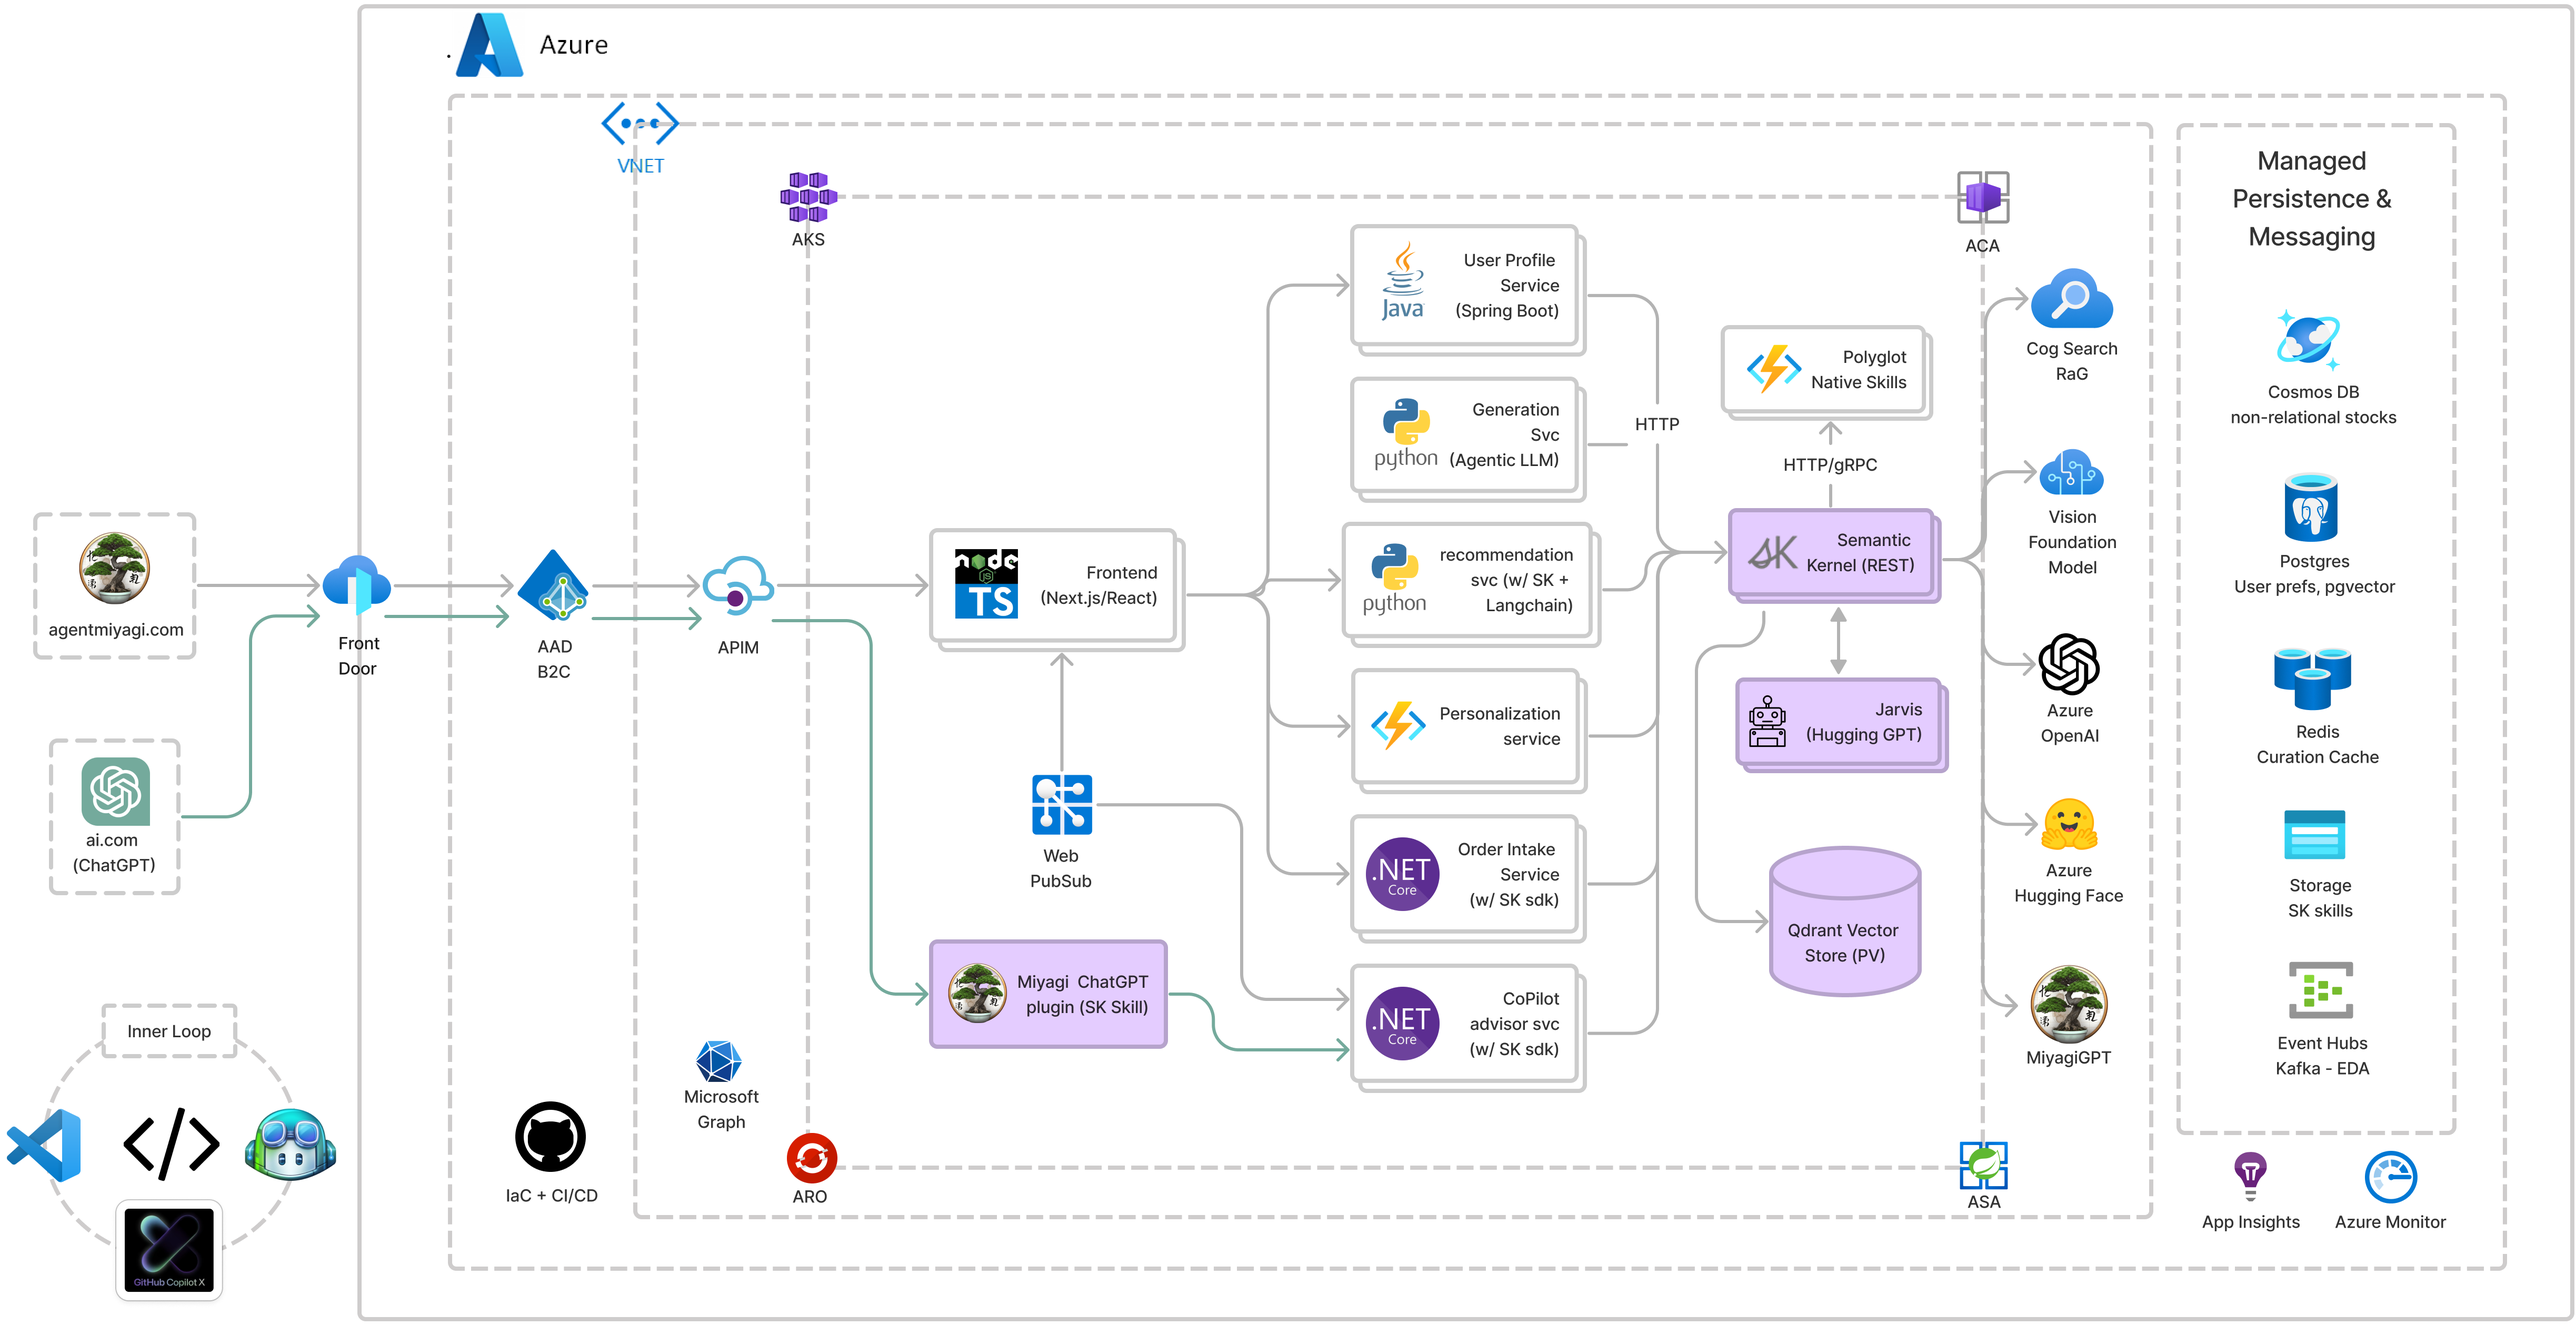
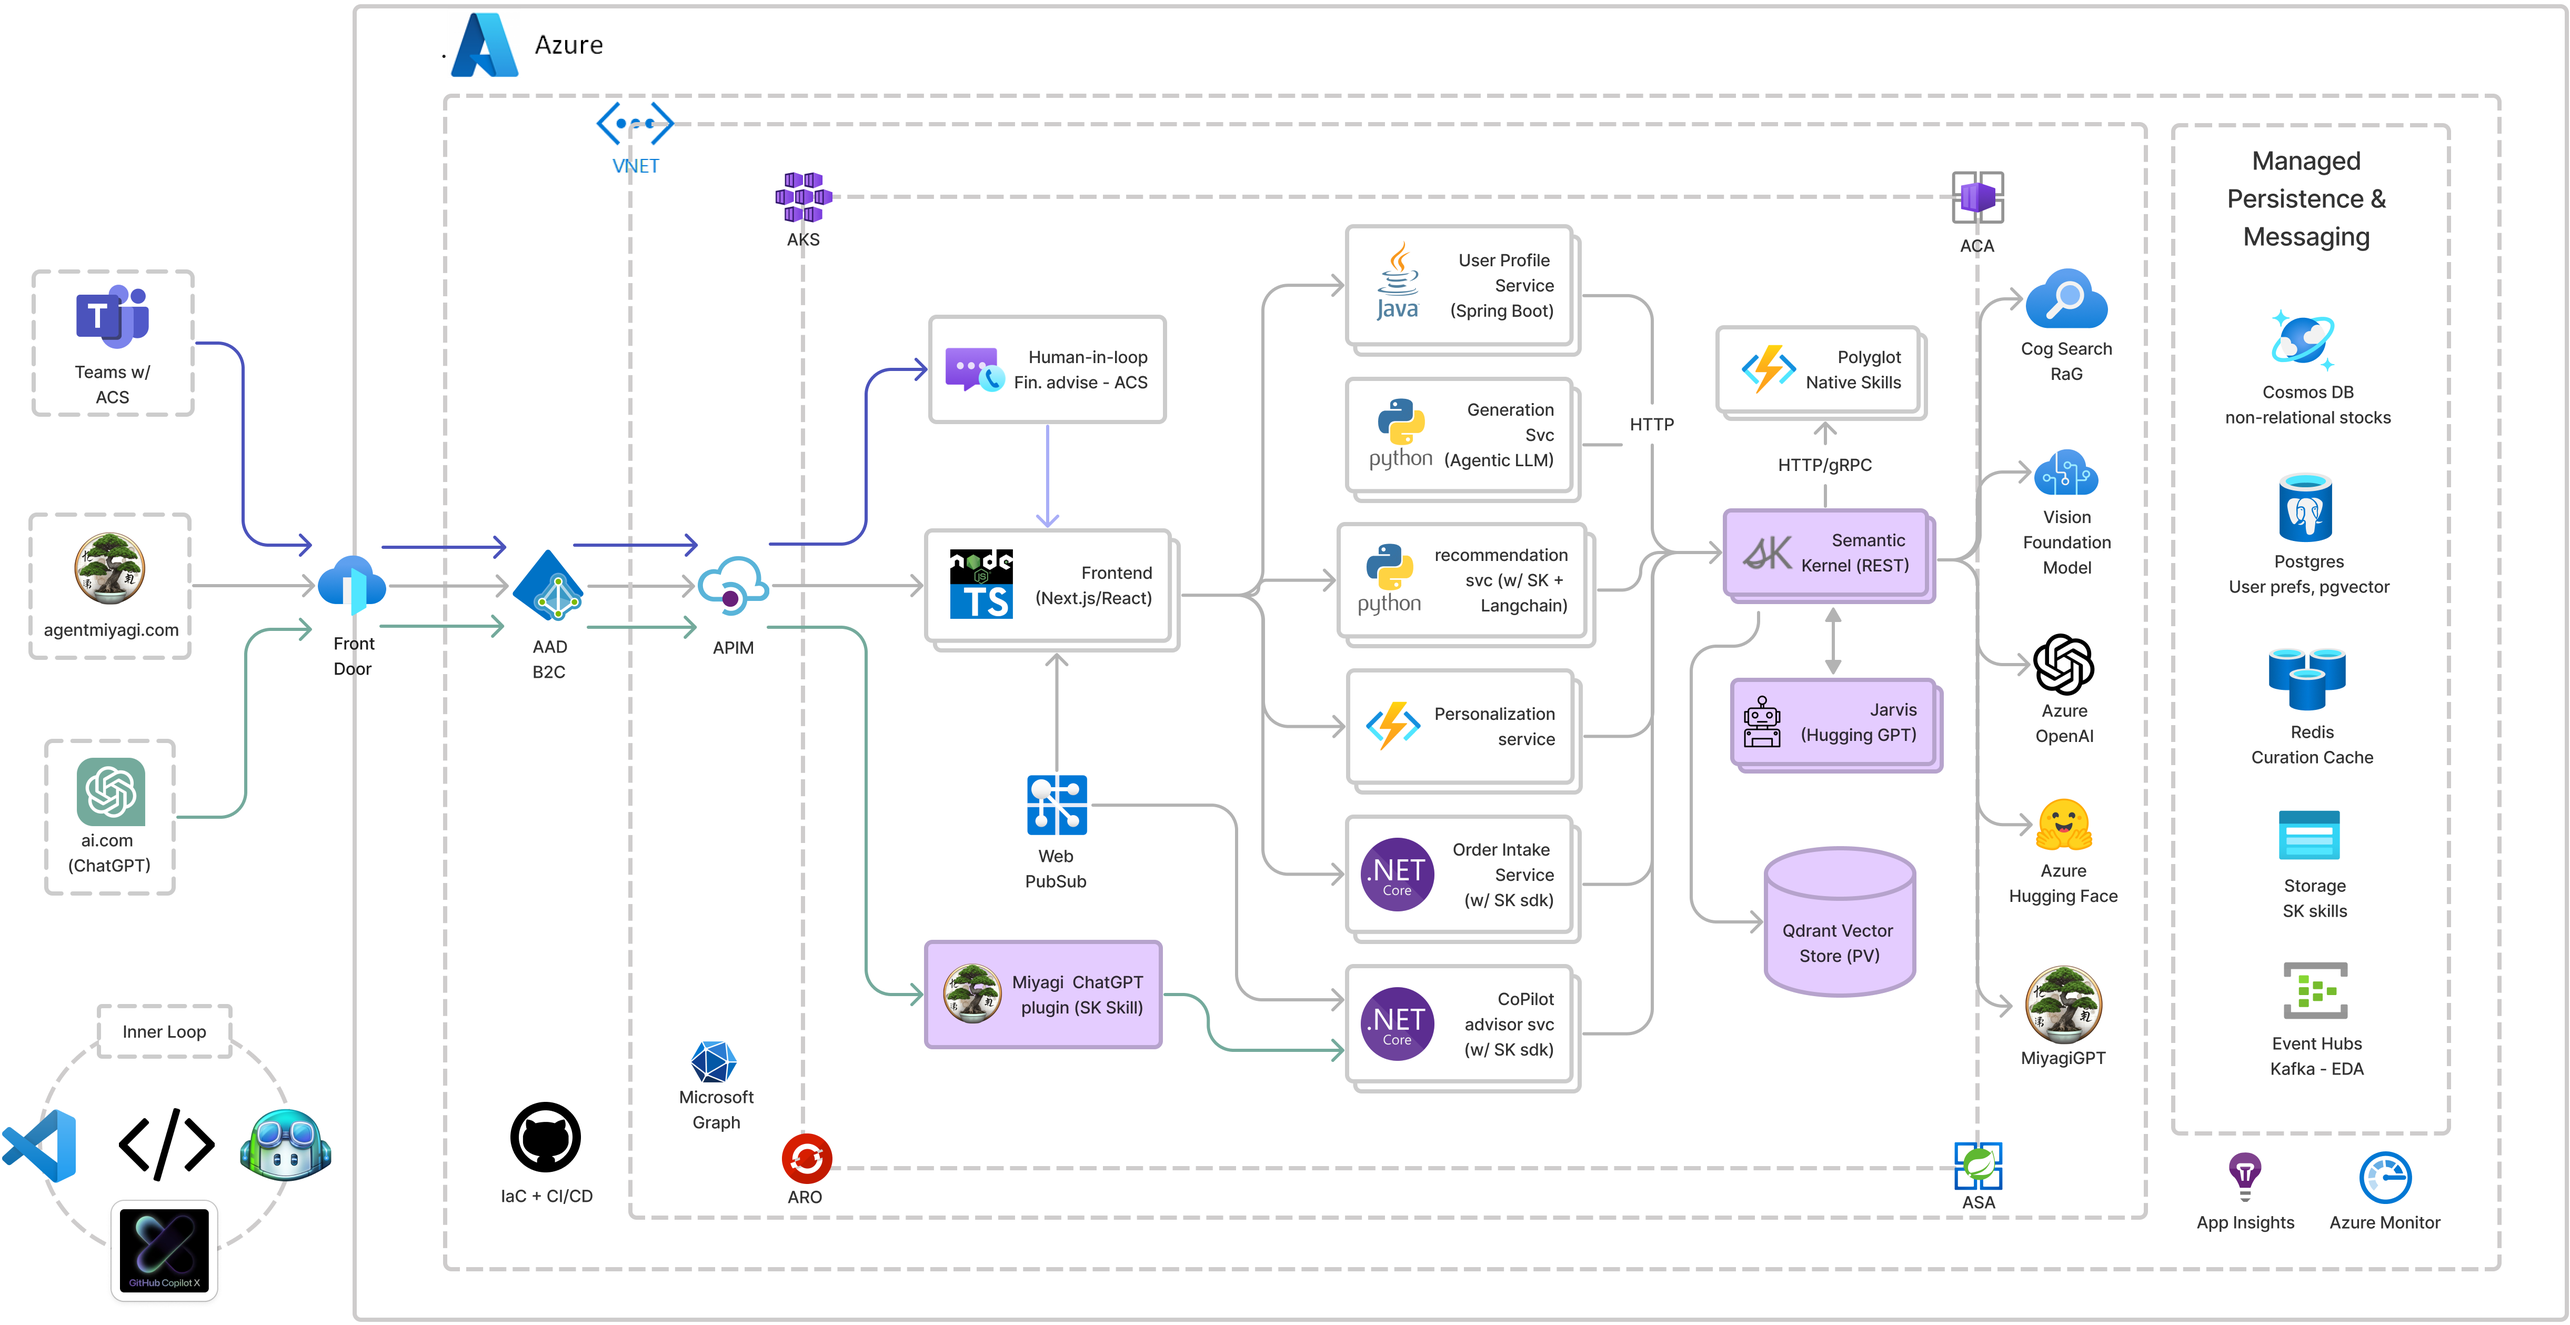
add azure communication services

diff --git a/docs/wksp/00-intro/architecture-overview.md b/docs/wksp/00-intro/architecture-overview.md
@@ -23,9 +23,9 @@ Miyagi's architecture is designed with a focus on customer-centricity, leveragin
 
 The event-driven backbone of Miyagi's architecture ensures enterprise-grade quality attributes such as availability, scalability, and maintainability. The architecture is designed to evolve with the rapid advancements in foundation models, allowing for incremental implementation of various use cases and experimentation.
 
-Miyagi's frontend moves beyond simple chat interactions, offering a more engaging and dynamic user experience. The generative image use case architecture with Dreambooth showcases the creative potential of AI in modern applications. In addition, it also showcases how you can build your own chatbot using [DeepSpeed Chat](https://github.com/microsoft/DeepSpeedExamples/tree/master/applications/DeepSpeed-Chat) with your own biases and personality (RLHF - Reinforcement Learning from Human Feedback)
+Miyagi's frontend moves beyond simple chat interactions, offering a more engaging and dynamic user experience. The generative image use case architecture with [Dreambooth](https://huggingface.co/thegovind/reddogpillmodel512) showcases the creative potential of AI in modern applications. In addition, it also showcases how you can build your own chatbot using [DeepSpeed Chat](https://github.com/microsoft/DeepSpeedExamples/tree/master/applications/DeepSpeed-Chat) with your own biases and personality (RLHF - Reinforcement Learning from Human Feedback)
 
-By incorporating cutting-edge technologies and frameworks such as Azure OpenAI, LangChain, Jarvis, Qdrant, Chroma, and ControlNet, Miyagi demonstrates how developers can harness the power of AI to build the next generation of intelligent applications. By leveraging these tools and technologies, Miyagi serves as a blueprint for creating applications that adapt and grow alongside their users, providing highly personalized and contextually relevant experiences.
+By incorporating cutting-edge technologies and frameworks such as Azure OpenAI, LangChain, Jarvis, Qdrant, Dreambooth, and ControlNet, Miyagi demonstrates how developers can harness the power of AI to build the next generation of intelligent applications. By leveraging these tools and technologies, Miyagi serves as a blueprint for creating applications that adapt and grow alongside their users, providing highly personalized and contextually relevant experiences.
 
 To ensure seamless integration and communication between the various components of Miyagi's architecture, a combination of Azure Functions, AKS/ACA, and Apache Kafka on Azure Event Hubs is used. These technologies facilitate efficient management of microservices, data storage, and real-time processing of events, allowing the system to scale according to the needs of the application.
 
@@ -47,9 +47,9 @@ In summary, Project Miyagi's architecture presents a forward-looking approach to
 - [LangChain](https://github.com/hwchase17/langchain#readme)
 - [Foundation Models from CogServices](https://azure.microsoft.com/en-us/blog/announcing-a-renaissance-in-computer-vision-ai-with-microsofts-florence-foundation-model/)
 - [Qdrant](https://qdrant.tech/solutions/)
-- [ControlNet](https://github.com/lllyasviel/ControlNet)
 - [Microsoft DeepSpeed Chat](https://github.com/microsoft/DeepSpeedExamples/tree/master/applications/DeepSpeed-Chat)
 - [Azure Web PubSub](https://azure.microsoft.com/en-us/products/web-pubsub)
+- [Azure Communication Services (ACS)](https://learn.microsoft.com/en-us/azure/communication-services/overview#common-scenarios)
 - [Azure Functions](https://azure.microsoft.com/en-ca/products/functions/)
 - [AKS](https://azure.microsoft.com/en-us/products/kubernetes-service) / [ACA](https://azure.microsoft.com/en-us/products/container-apps)
 - [Azure Monitor](https://learn.microsoft.com/en-us/azure/azure-monitor/)
